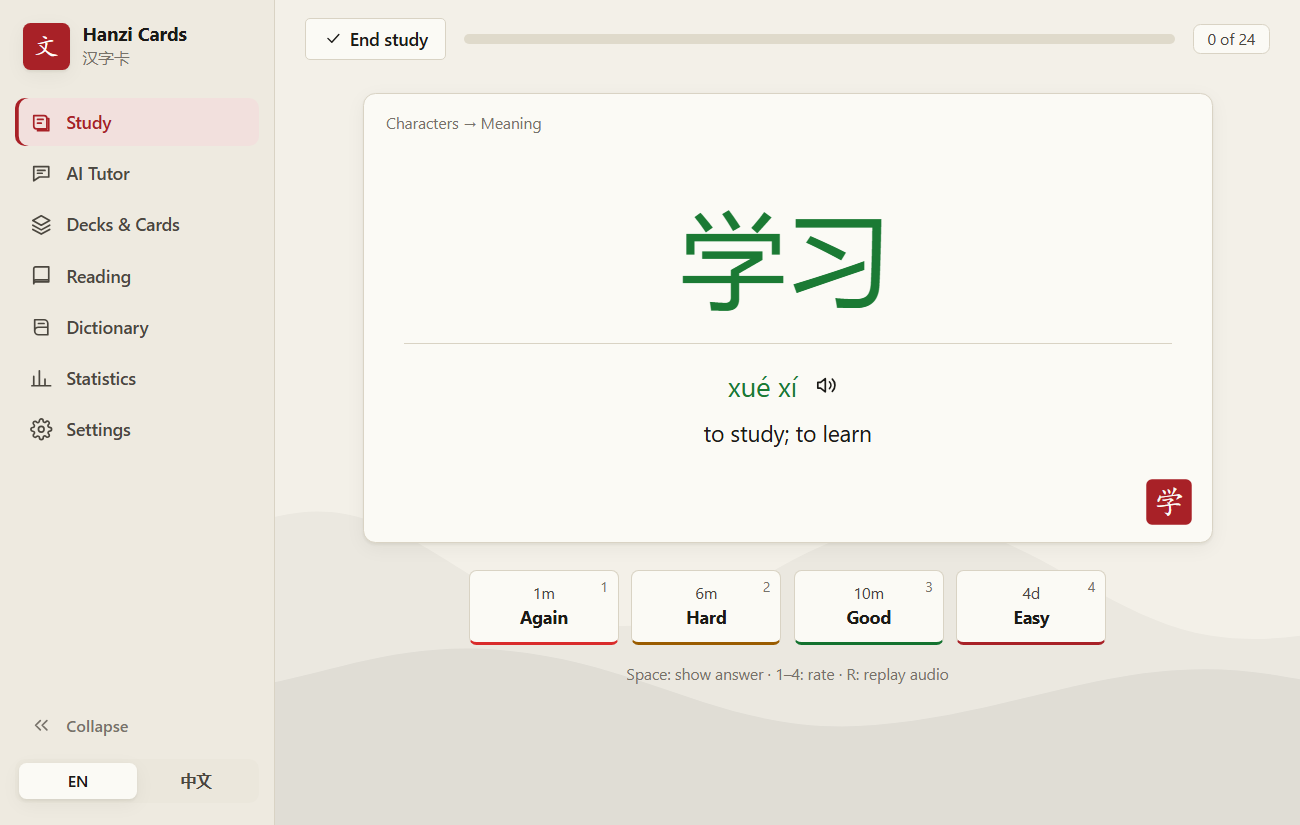
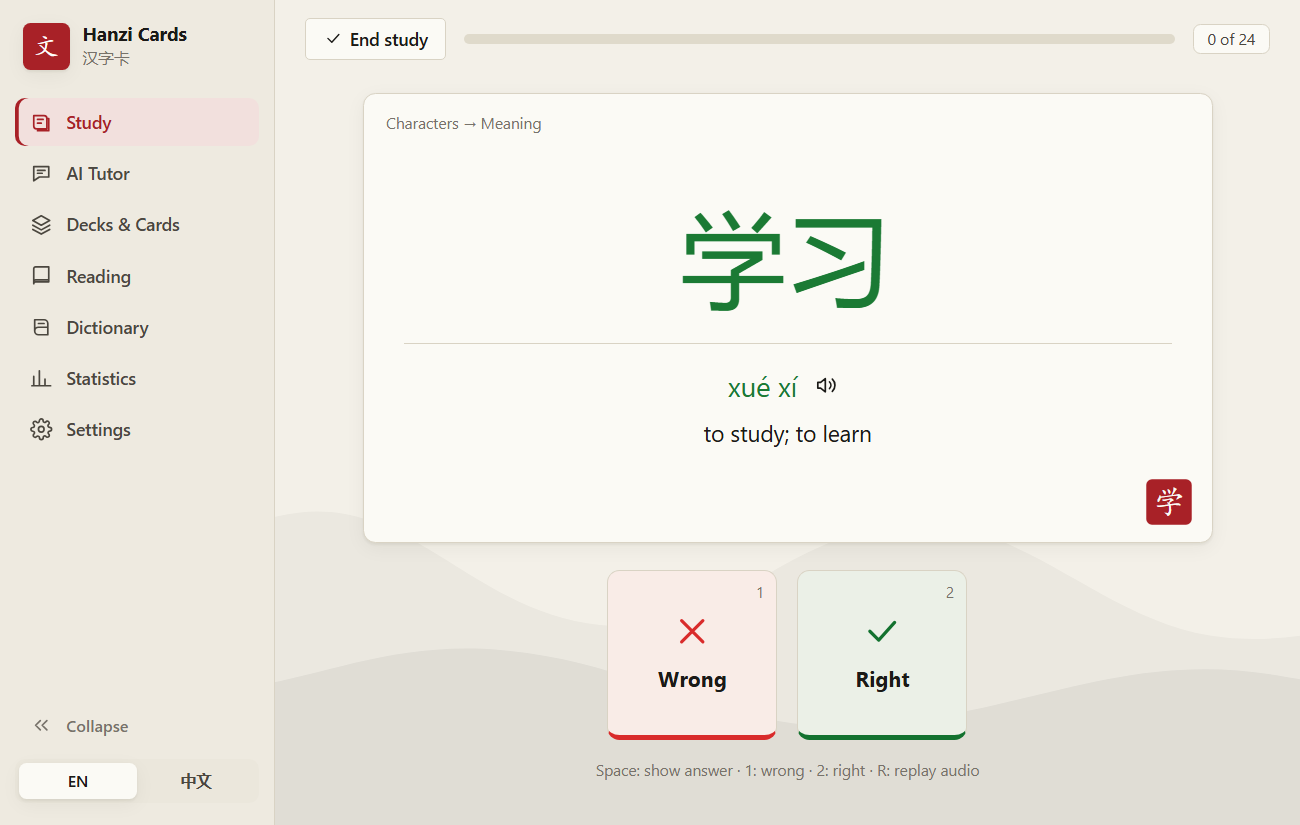
Study: the session counter counts cards as they are answered
It only moved when a card left the session, so a session of new cards (which come back for their learning steps) read 0 of N through the whole first pass. It now counts each card the first time it is answered and says how many are still to come round again; the bar gives half credit to those. README screenshots retaken with the default Wrong / Right buttons.

diff --git a/src/views/StudyView.svelte b/src/views/StudyView.svelte
@@ -53,7 +53,12 @@
   // Session state.
   let queue = $state<StudyItem[]>([]);
   let total = $state(0);
+  // The count at the top: cards answered at least once, and how many of those are still to
+  // come round again (learning steps) before the session ends.
   let done = $state(0);
+  let again = $state(0);
+  let answered = new Set<string>();
+  const itemKey = (x: StudyItem) => `${x.card.id}:${x.direction}`;
   let revealed = $state(false);
   let previews = $state<IntervalPreview[]>([]);
   let shownAt = 0;
@@ -308,6 +313,8 @@
       queue = spreadSameWords(sel.shuffle ? shuffle(info.items) : info.items);
       total = queue.length;
       done = 0;
+      again = 0;
+      answered = new Set();
       result = { reviewed: 0, correct: 0, ms: 0 };
       phase = "session";
       if (sel.directions.some((d) => (isSpoken(d) && speech.engine === "whisper") || d === "say_meaning"))
@@ -370,9 +377,10 @@
         const pace = Math.max(4, result.ms / result.reviewed / 1000); // seconds per card
         const pos = Math.min(rest.length, Math.max(MIN_GAP, Math.round(res.intervalSecs / pace)));
         rest.splice(pos, 0, item);
-      } else {
-        done++;
       }
+      answered.add(itemKey(item));
+      again = rest.filter((x) => answered.has(itemKey(x))).length;
+      done = total - (rest.length - again); // every card but those not yet shown
       queue = rest;
       await show();
     } catch (e) {
@@ -636,8 +644,8 @@
         <Icon name="check" size={15} />
         {t("study.end")}
       </button>
-      <div class="bar" aria-hidden="true"><div style="width:{total ? (done / total) * 100 : 0}%"></div></div>
-      <span class="count small">{t("study.progress", { done, total })}</span>
+      <div class="bar" aria-hidden="true"><div style="width:{total ? ((done - again / 2) / total) * 100 : 0}%"></div></div>
+      <span class="count small">{again ? t("study.progressAgain", { done, total, n: again }) : t("study.progress", { done, total })}</span>
     </div>
 
     <div class="stage">

diff --git a/src/lib/i18n.svelte.ts b/src/lib/i18n.svelte.ts
@@ -550,6 +550,7 @@ const en = {
   "settings.oneDirectionHint":
     "After you answer a word one way (e.g. characters → meaning), its other directions wait for the next session instead of giving the answer away.",
   "study.progress": "{done} of {total}",
+  "study.progressAgain": "{done} of {total} · {n} to repeat",
   "study.end": "End study",
   "study.endHint": "Every answer is already saved; this ends the session and shows your summary. You can switch pages and come back to continue.",
   "study.sessionRunning": "A study session is still running: end it to start studying that deck (it's selected for next time).",
@@ -1406,6 +1407,7 @@ const zh: Partial<Record<Key, string>> = {
   "settings.oneDirection": "每次学习每个词只练一个方向",
   "settings.oneDirectionHint": "一个词按某个方向答过后（如汉字 → 意思），它的其他方向留到下一次学习，免得提前看到答案。",
   "study.progress": "{done} / {total}",
+  "study.progressAgain": "{done} / {total} · {n} 张待重复",
   "study.end": "结束学习",
   "study.endHint": "每个回答都已保存；这会结束本次学习并显示总结。你可以切换页面，回来后继续。",
   "study.sessionRunning": "学习还在进行：结束后才能学习那个卡组（已为下次选好）。",

diff --git a/README.md b/README.md
@@ -3,7 +3,7 @@
 A desktop flash card app for learning Mandarin Chinese (Simplified), for Windows, macOS and Linux.
 
 <p>
-  <img src="docs/images/study-sakura.png" width="49%" alt="A card's answer in the Sakura theme: characters coloured by tone, pinyin, meaning and the four answer buttons">
+  <img src="docs/images/study-sakura.png" width="49%" alt="A card's answer in the Sakura theme: characters coloured by tone, pinyin, meaning and the Wrong / Right buttons">
   <img src="docs/images/study-ink.png" width="49%" alt="The same in the Ink &amp; paper theme">
   <img src="docs/images/study-lantern.png" width="49%" alt="A card's question in the Lantern theme">
   <img src="docs/images/study-moon.png" width="49%" alt="A card's answer in the Moon Night theme">
